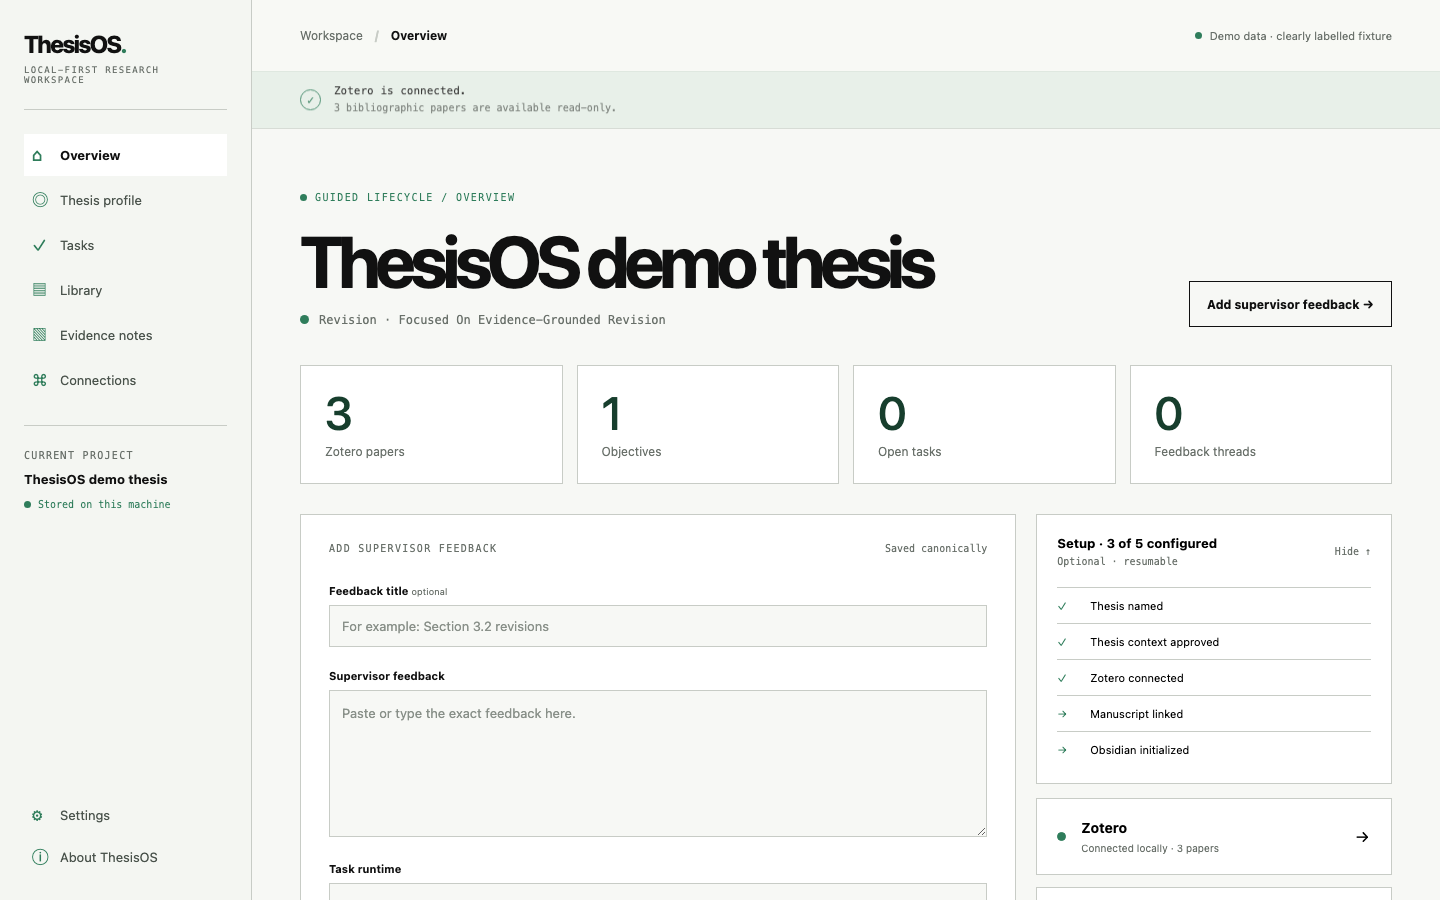
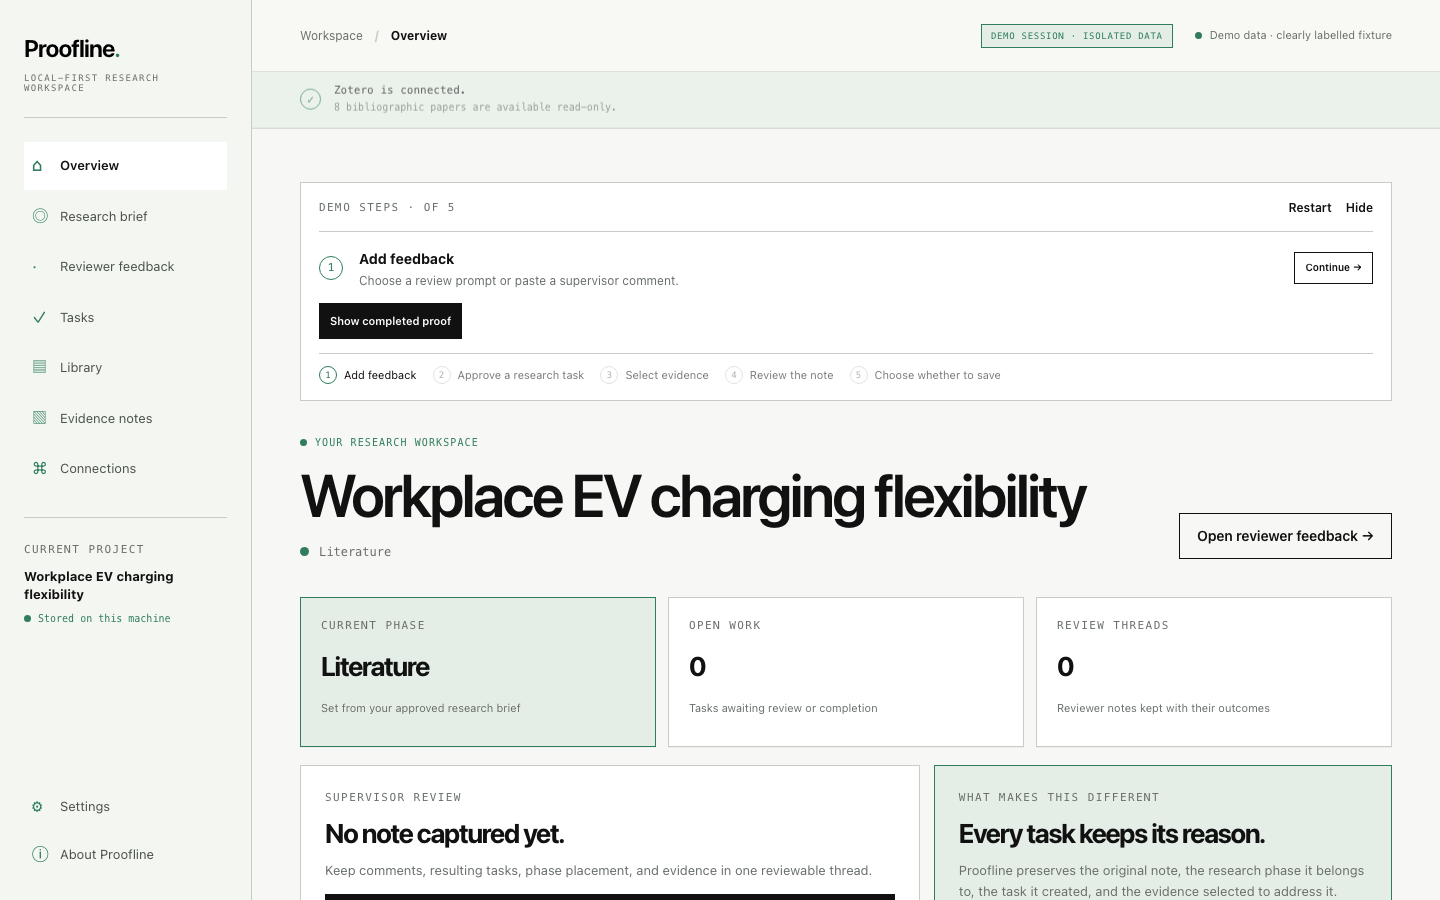
Capture proof path submission media

diff --git a/docs/submission-demo.md b/docs/submission-demo.md
@@ -26,9 +26,9 @@ Open `http://127.0.0.1:4173`.
 - [x] Screenshot: task graph from messy supervisor feedback (`docs/assets/judge-task-approval.png`).
 - [x] Screenshot: judge retrieval results with abstract coverage, threshold, fallback mode, and match provenance (`docs/assets/judge-retrieval.png`).
 - [x] Screenshot: grounded note with stable source-ID citations (`docs/assets/judge-grounded-note.png`).
-- [ ] Capture screenshot/video moment: Claim Traceback showing a source note → evidence → task → feedback (available through **Show completed proof**).
+- [x] Screenshot: Claim Traceback showing a source note → evidence → task → feedback (`docs/assets/judge-claim-traceback.png`).
 - [ ] Screenshot/video moment: Revision Response Matrix downloaded from the canonical workflow.
-- [ ] Capture screenshot/video moment: rejected task cannot search or an unselected citation is refused (the latter is available through **Test citation boundary**).
+- [x] Screenshot: unselected citation refused before preview (`docs/assets/judge-citation-rejection.png`).
 - [x] GPT-5.6 build feedback receipt preserved (`docs/assets/codex-feedback-receipt.png`).
 - [ ] Upload `docs/assets/thesisos-demo.mp4` as a public YouTube video under three minutes.
 - [x] Main Codex GPT-5.6 build and `/feedback` ID verified: `019f5cc1-08be-7071-a5ea-220a8de0f313`.